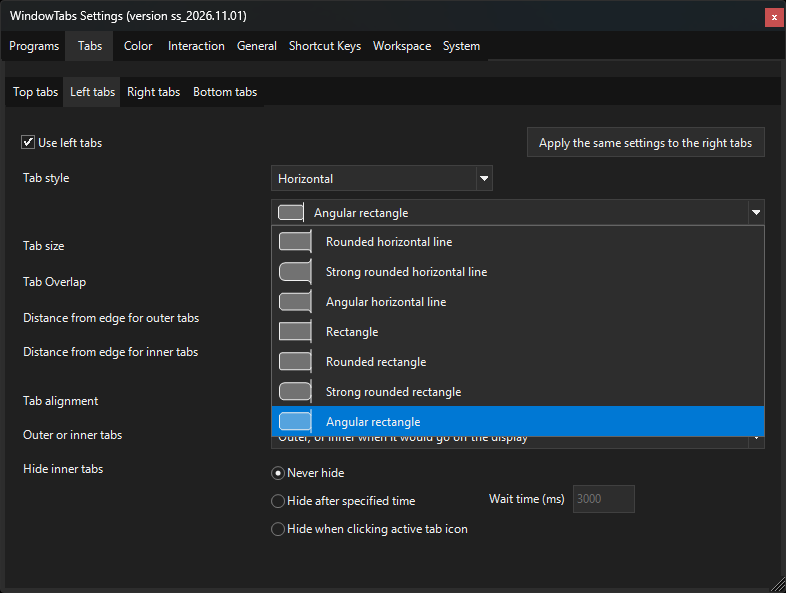
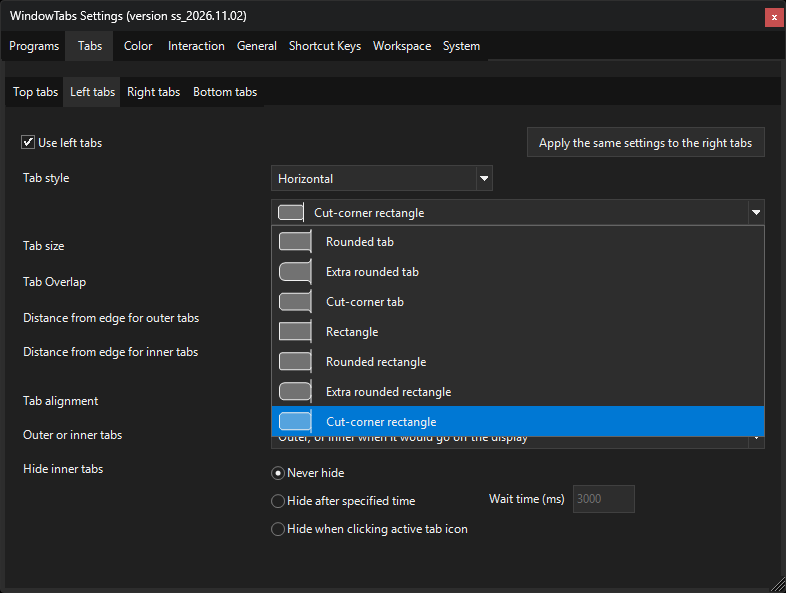
Name the tab styles by their shape, the same on every edge

diff --git a/README_Japanese.md b/README_Japanese.md
@@ -416,7 +416,7 @@ leafOfTree 氏も様々な改良を加えたフォークを作成しています
 
 上タブのページには、次の項目があります。
 
-- **タブのスタイル**: S字・角丸縦線・強い角丸縦線・角ばった縦線・台形・右切り欠き台形・左切り欠き台形・長方形・角丸長方形・強い角丸長方形・角ばった長方形の11種類から選べます。選ぶとすぐにタブに反映され、再起動は不要です。既定は角丸縦線です。
+- **タブのスタイル**: S字・角丸タブ・強い角丸タブ・角カットタブ・台形・右カット台形・左カット台形・四角形・角丸四角形・強い角丸四角形・角カット四角形の11種類から選べます。選ぶとすぐにタブに反映され、再起動は不要です。既定は角丸タブです。
 - **タブのサイズ**: 高さと最大幅を 1 行で調整できます。それぞれの右のボタンで既定値に戻せます。
 - **ピン止めタブの幅**・**タブの重なり**・**外側タブの端からの距離**・**内側タブの端からの距離** (左右): 数値で調整できます。各項目の右のボタンで既定値に戻せます。
 - **寄せ**: タブの既定の左右寄せを選びます。

diff --git a/README.md b/README.md
@@ -416,7 +416,7 @@ Right-click the tray icon, or right-click a tab, and choose "Settings...". Tray 
 
 The top tabs page has these rows:
 
-- **Tab style**: Choose from eleven shapes - S-curve, rounded vertical line, strong rounded vertical line, angular vertical line, trapezoid, right-cut trapezoid, left-cut trapezoid, rectangle, rounded rectangle, strong rounded rectangle and angular rectangle. The tabs change at once, without restarting. The default is the rounded vertical line.
+- **Tab style**: Choose from eleven shapes - S-curve, rounded tab, extra rounded tab, cut-corner tab, trapezoid, right-cut trapezoid, left-cut trapezoid, rectangle, rounded rectangle, extra rounded rectangle and cut-corner rectangle. The tabs change at once, without restarting. The default is the rounded tab.
 - **Tab size**: Set height and maximum width side by side, each with its own reset button.
 - **Pinned Tab Width**, **Tab Overlap**, **Distance from edge for outer tabs** and **Distance from edge for inner tabs** (left and right): Set as numbers. The button to the right of each puts back its default.
 - **Tab alignment**: Choose the default left or right alignment.
